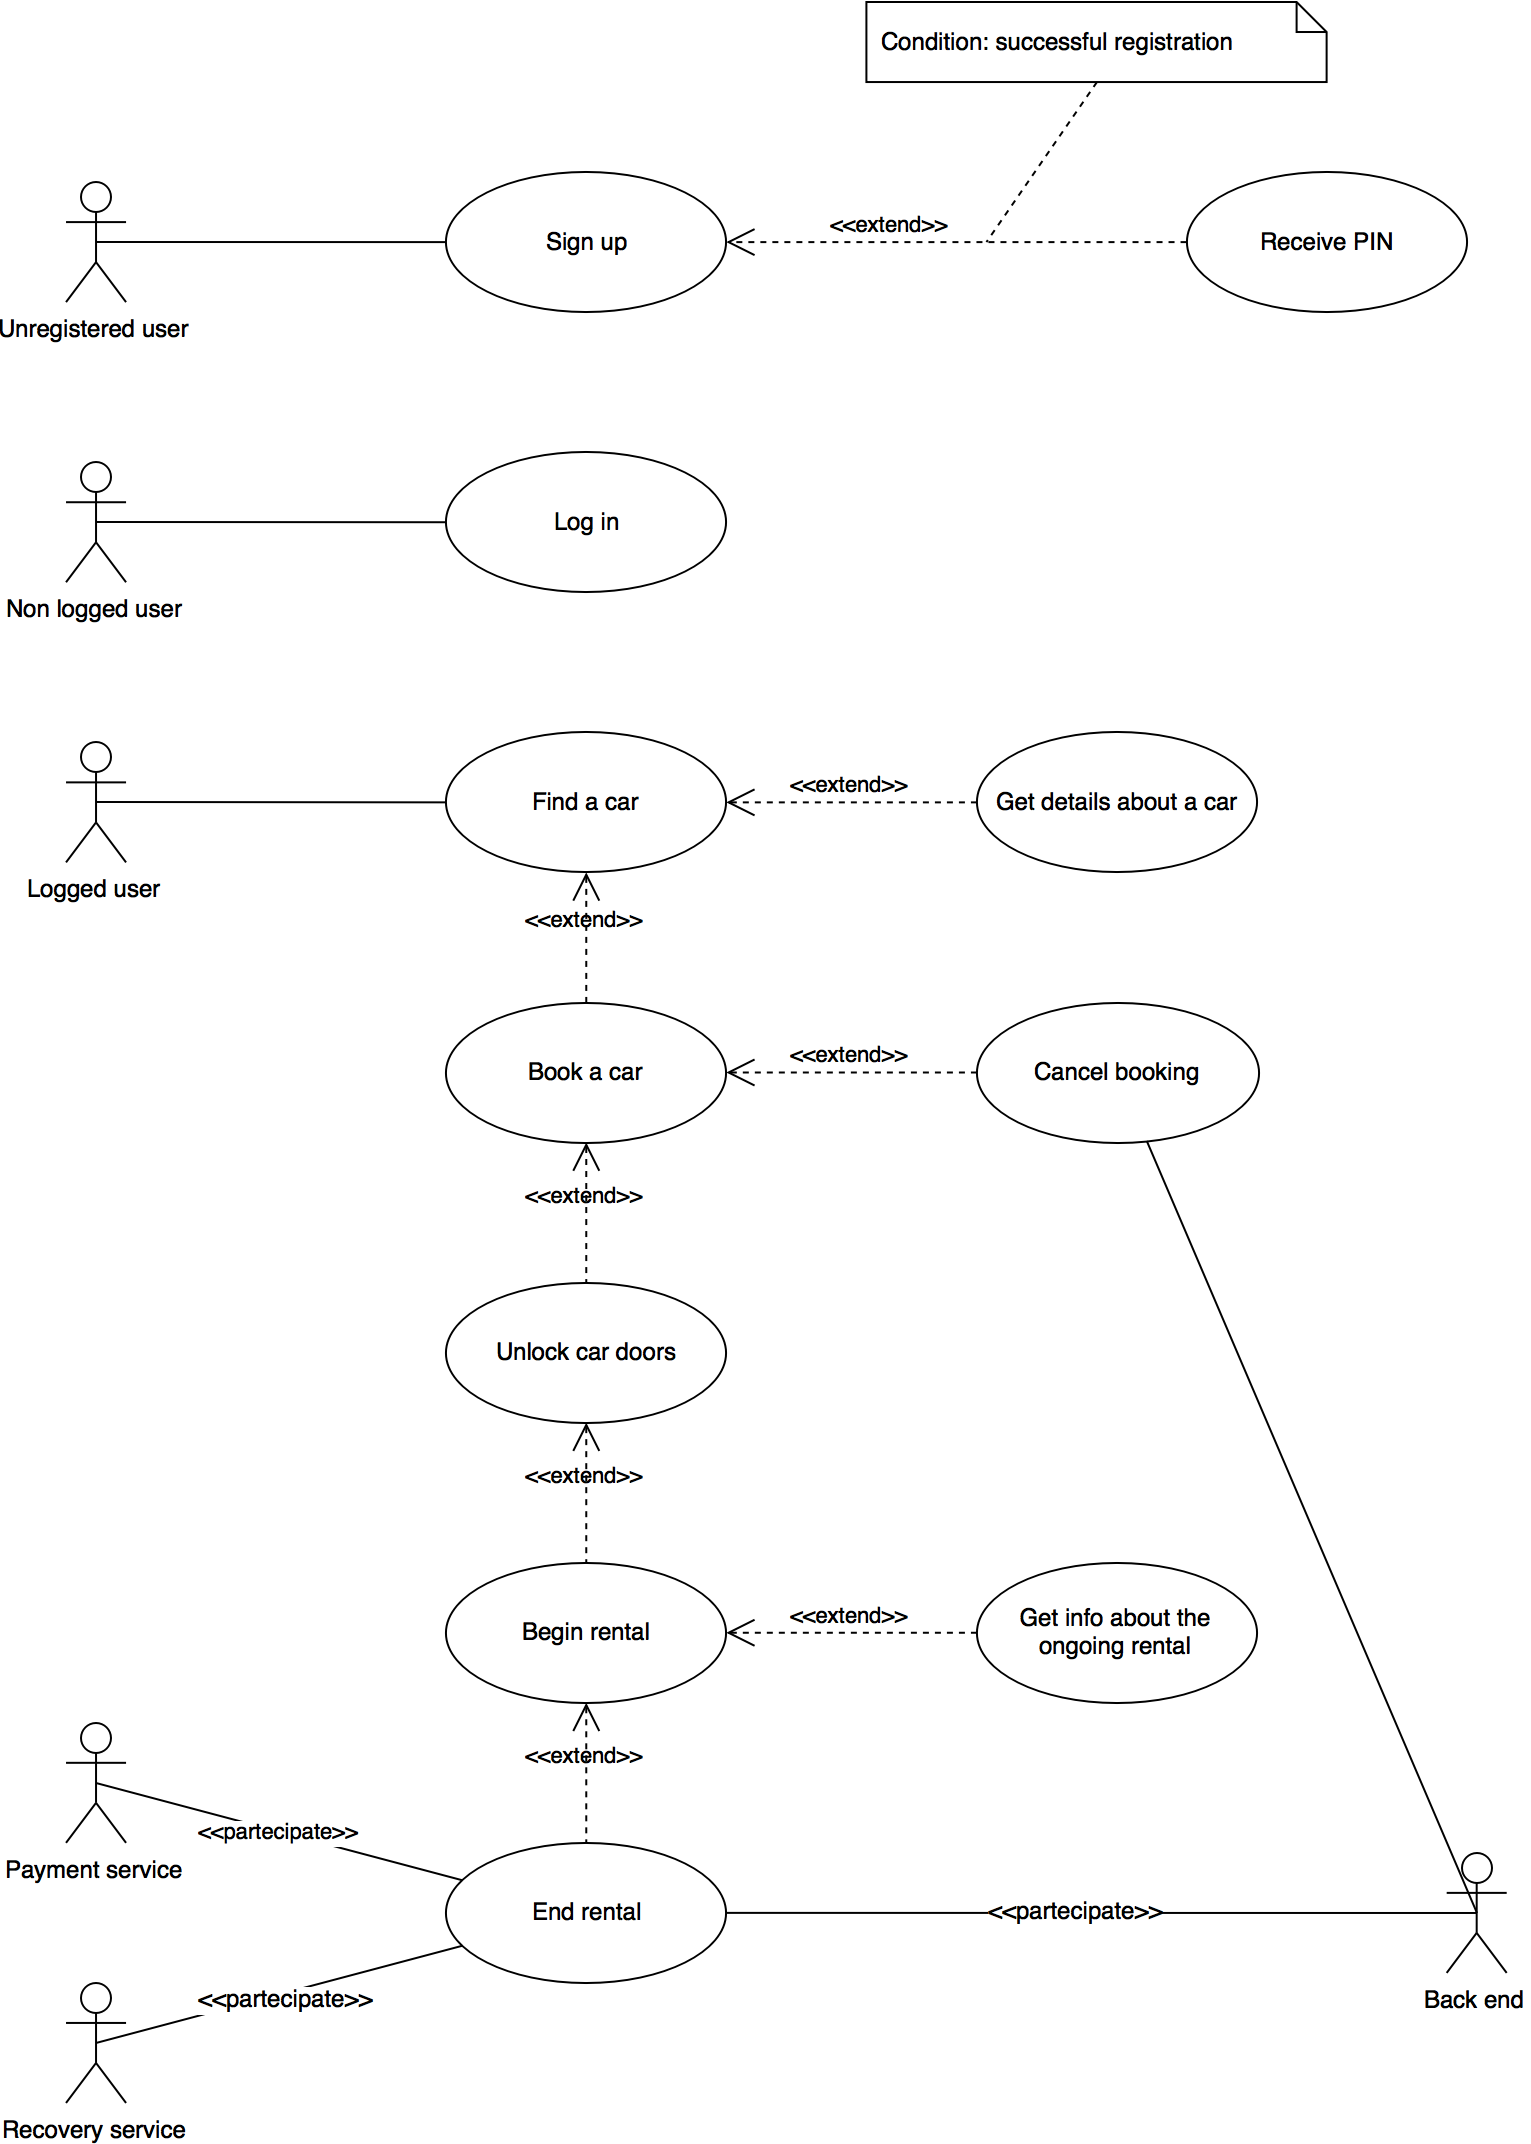
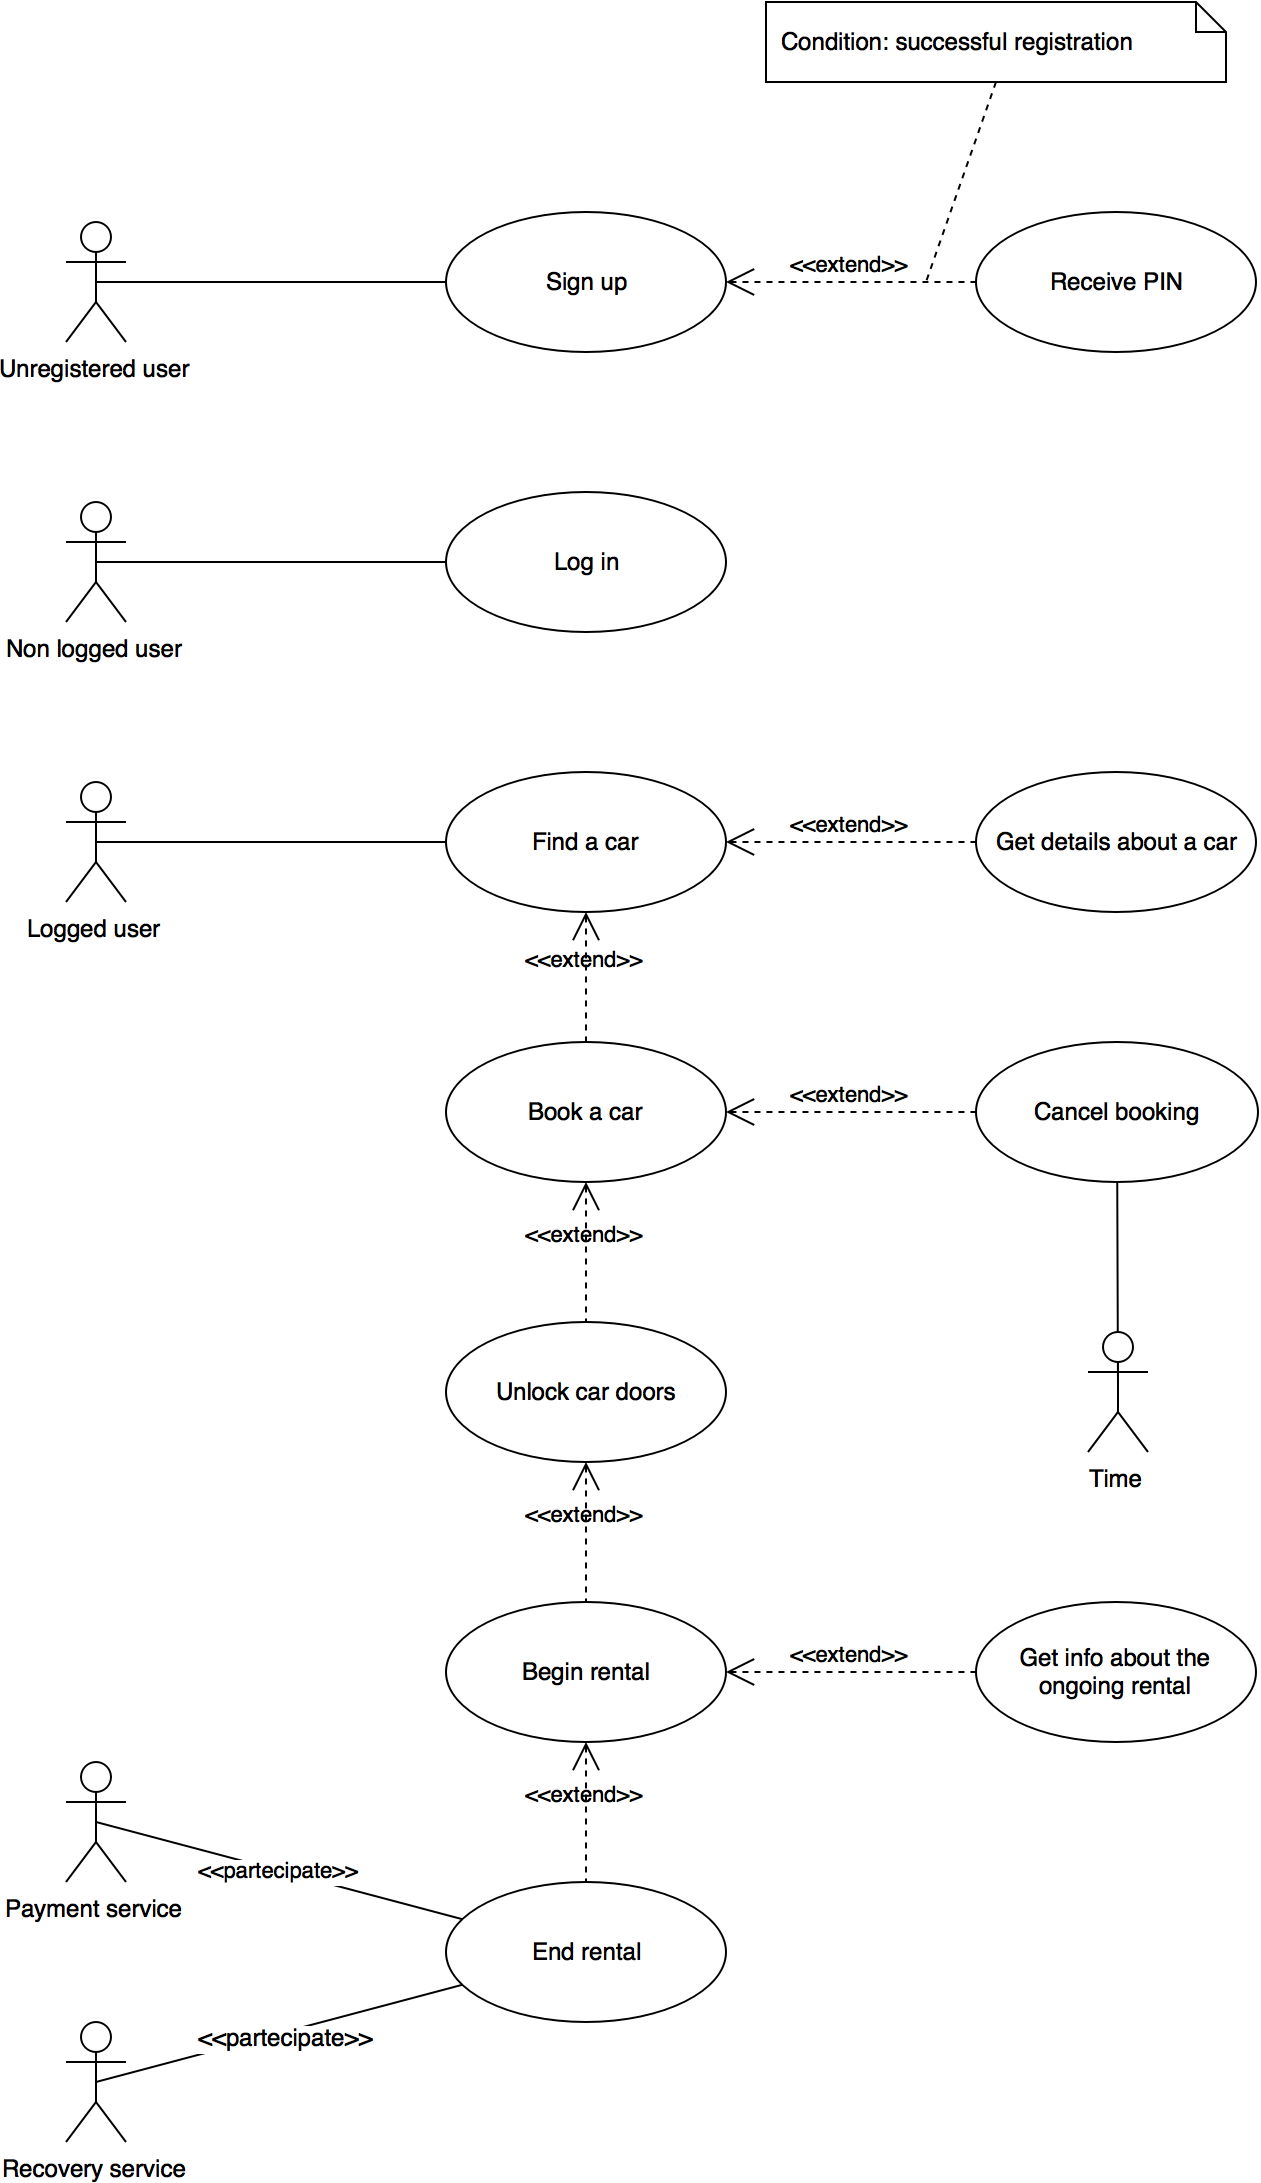
Fix use case model

diff --git a/RASD/chapters/appendices/appendix-a/sections/a-2-use-case-diagram.tex b/RASD/chapters/appendices/appendix-a/sections/a-2-use-case-diagram.tex
@@ -2,7 +2,7 @@
 
 \begin{figure}[H]
 	\centering
-	\includegraphics[width=\textwidth]{use-case-model}
+	\includegraphics[width=0.8\textwidth]{use-case-model}
 	\caption[Use case model]{The diagram above represents the use case model of the PowerEnJoy project. All the use cases are included along with the actors involved in their execution.}
 	\label{fig:use-case-model}
 \end{figure}
